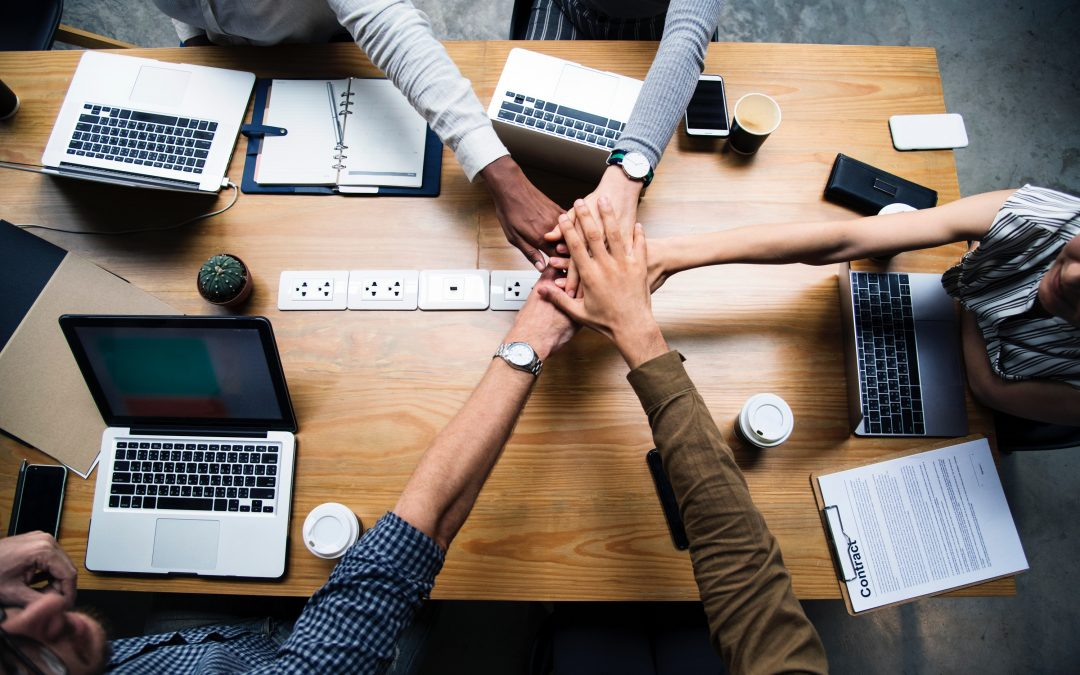
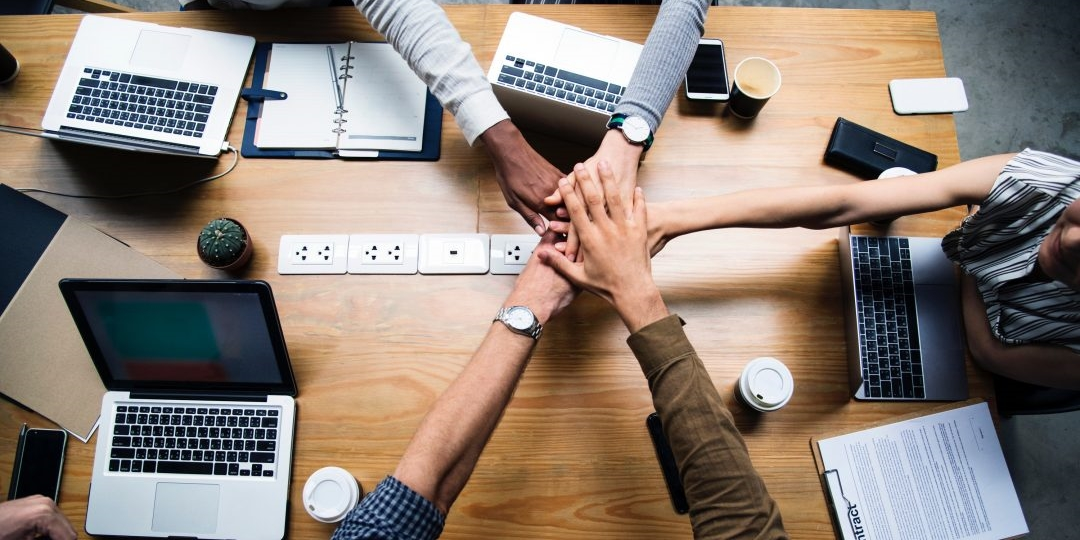
update readme

diff --git a/README.md b/README.md
@@ -3,7 +3,7 @@
 With this application you can create a team and work together sharing gools. Your team can be public too and any other user in plataform with account can join it and help you.
 
 <p align="center">
-    <a href="https://teamcontrol.herokuapp.com/" target="blank"><img src="app/static/img/capa.png" width="500" alt="Teams Control Logo" /></a>
+    <a href="https://teamcontrol.herokuapp.com/" target="blank"><img src="app/static/img/capa.jpg" width="500" alt="Teams Control Logo" /></a>
 </p>
 
 ## Requirements
